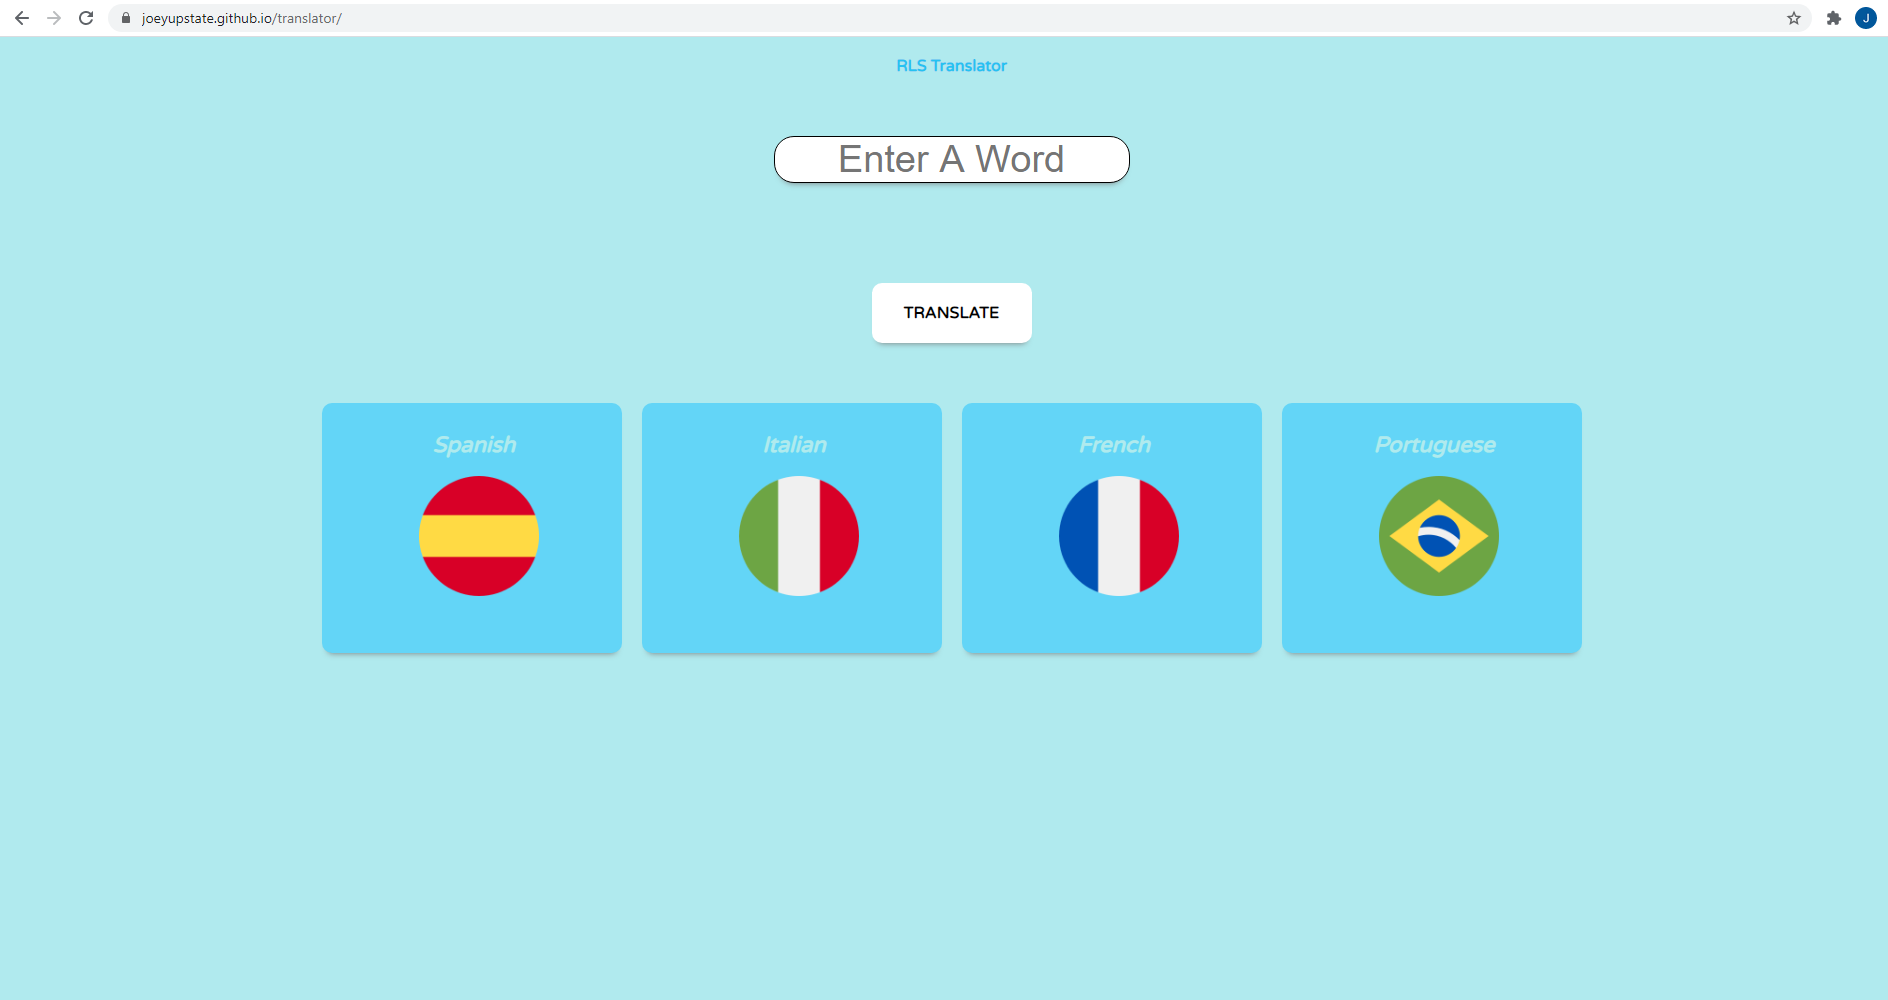
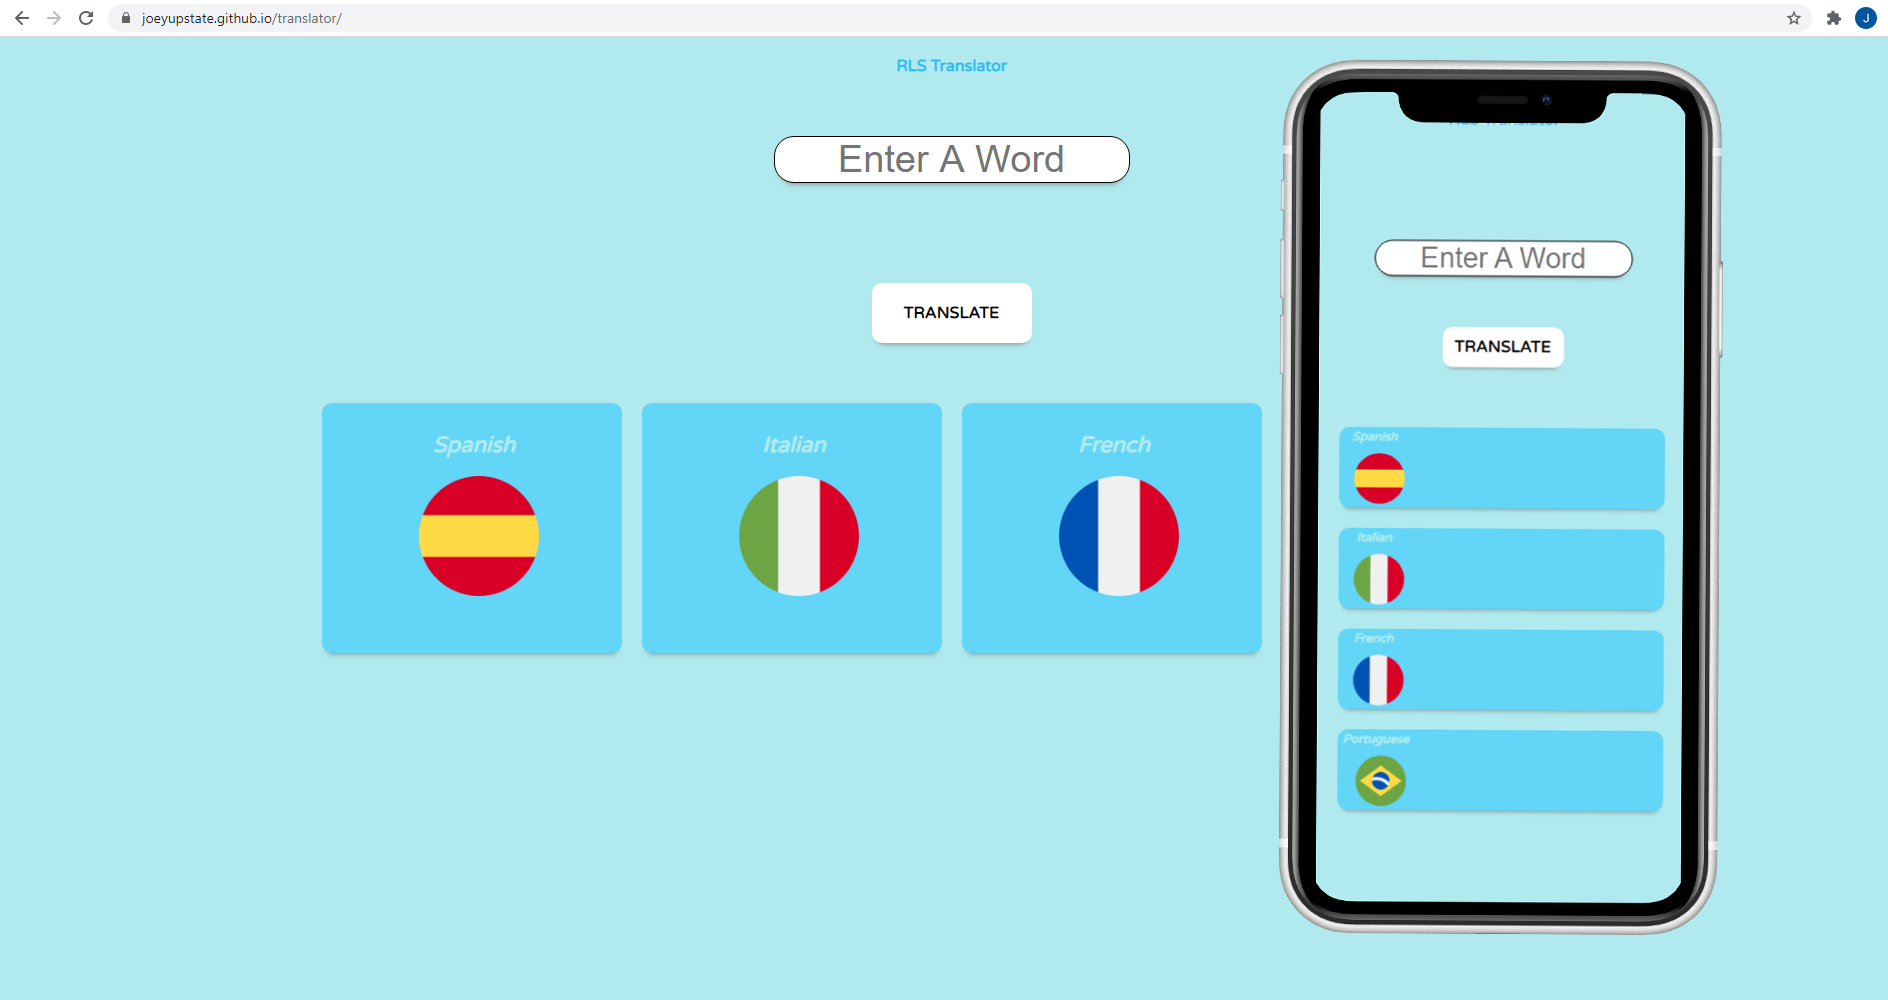
added phone pictures

Changed region(s): [[0.6562, 0.062, 0.9375, 0.961], [0.75, 0.31, 0.8438, 0.372]]

diff --git a/index.html b/index.html
@@ -40,11 +40,15 @@
     </section>
 
     <section id="projects">
-      <!-- Project 1-->
+
+      <!-- Project 1------------------------------------------------>
       <div class="project-container">
         <h2>Romance Language Translator</h2>
         <div class="desktop-display">
+      
           <img src="assets/translate.png" class="project-photos" />
+       
+  
           <div class= "ph4techicon">
           <p>
             I am passionate about learning languages and speak Spanish and
@@ -75,7 +79,9 @@
       </div>
       </div>
 
-      <!-- Project 2-->
+
+
+      <!-- Project 2---------------------------------->
       <div class="project-container">
         <h2>Crypto Converter</h2>
         <div class="desktop-display">
@@ -112,7 +118,9 @@
       </div>
       </div>
 
-      <!--Project 3-->
+
+
+      <!--Project 3------------------------------------------------>
       <div class="project-container">
         <h2>Restaurant Sites</h2>
         <div class="desktop-display">
@@ -146,6 +154,45 @@
         </div>
         </div>
       </div>
+      
+      <!-- Project 4------------------------------------------------>
+      <div class="project-container">
+        <h2>Weather App</h2>
+        <div class="desktop-display">
+      
+          <img src="assets/weather.png" class="project-photos" />
+       
+  
+          <div class= "ph4techicon">
+          <p>
+            I am passionate about learning languages and speak Spanish and
+            Portuguese fluently. I have a strong knowledge of other Romanance
+            languages but sometimes confuse words beacuse they are often
+            similar. With my translator I can look up a word and see it in all
+            of the langauges that I dabble in at the same time.
+          </p>
+        
+
+        <h4>Technologies</h4>
+        <div class="tech-container">
+          <div class="tech-bubbles">HTML5</div>
+          <div class="tech-bubbles">CSS3</div>
+          <div class="tech-bubbles">Javascript</div>
+        </div>
+
+        <div class="icon-container">
+          <div class="icon-buttons">
+          <img src="assets/github-logo.png" class="icon" />
+          <p id="icon-button-link">View Code</p>
+          </div>
+          <div class ="icon-buttons">
+          <img src="assets/link.png" class="icon" />
+          <p id="icon-button-link">Live Link</p>
+          </div>
+        </div>
+      </div>
+      </div>
+
     </section>
 
     <script src="main.js"></script>

diff --git a/styles.css b/styles.css
@@ -248,6 +248,8 @@ p {
 .project-container p {
   text-align: justify;
   color: white;
+
+  
 }
 
 .project-photos {
@@ -256,7 +258,9 @@ p {
   -webkit-box-shadow: 0 12px 6px -6px rgba(0, 0, 0, 0.4);
   -moz-box-shadow: 0 12px 6px -6px rgba(0, 0, 0, 0.4);
   box-shadow: 0 12px 6px -6px rgba(0, 0, 0, 0.4);
+z-index: 1;
 }
+
 .icon {
   height: 30px;
   width: 30px;
@@ -417,11 +421,11 @@ h4 {
   }
 
   #projects p {
-    color: #009fe8;
+    color: white;
     font-weight: bold;
     width: 80%;
     font-weight: 400;
-    background-color: white;
+   
     padding: 10px;
   }
 
@@ -429,6 +433,11 @@ h4 {
     height: 400px;
     width: 45%;
     margin: 10px;
+  }
+
+  .project-phone-photos{
+    height:400px;
+    width: 200px;
   }
   .ph4techicon {
     display: flex;
@@ -468,4 +477,15 @@ h4 {
     color: black !important;
     background-color: transparent !important;
   }
+  
+.tech-container {
+  width: 90%;
+  display: flex;
+  justify-content: center;
+  align-items: center;
+
+  flex-wrap: wrap;
+  border-right: none;
+  border-left:none;
+}
 }
